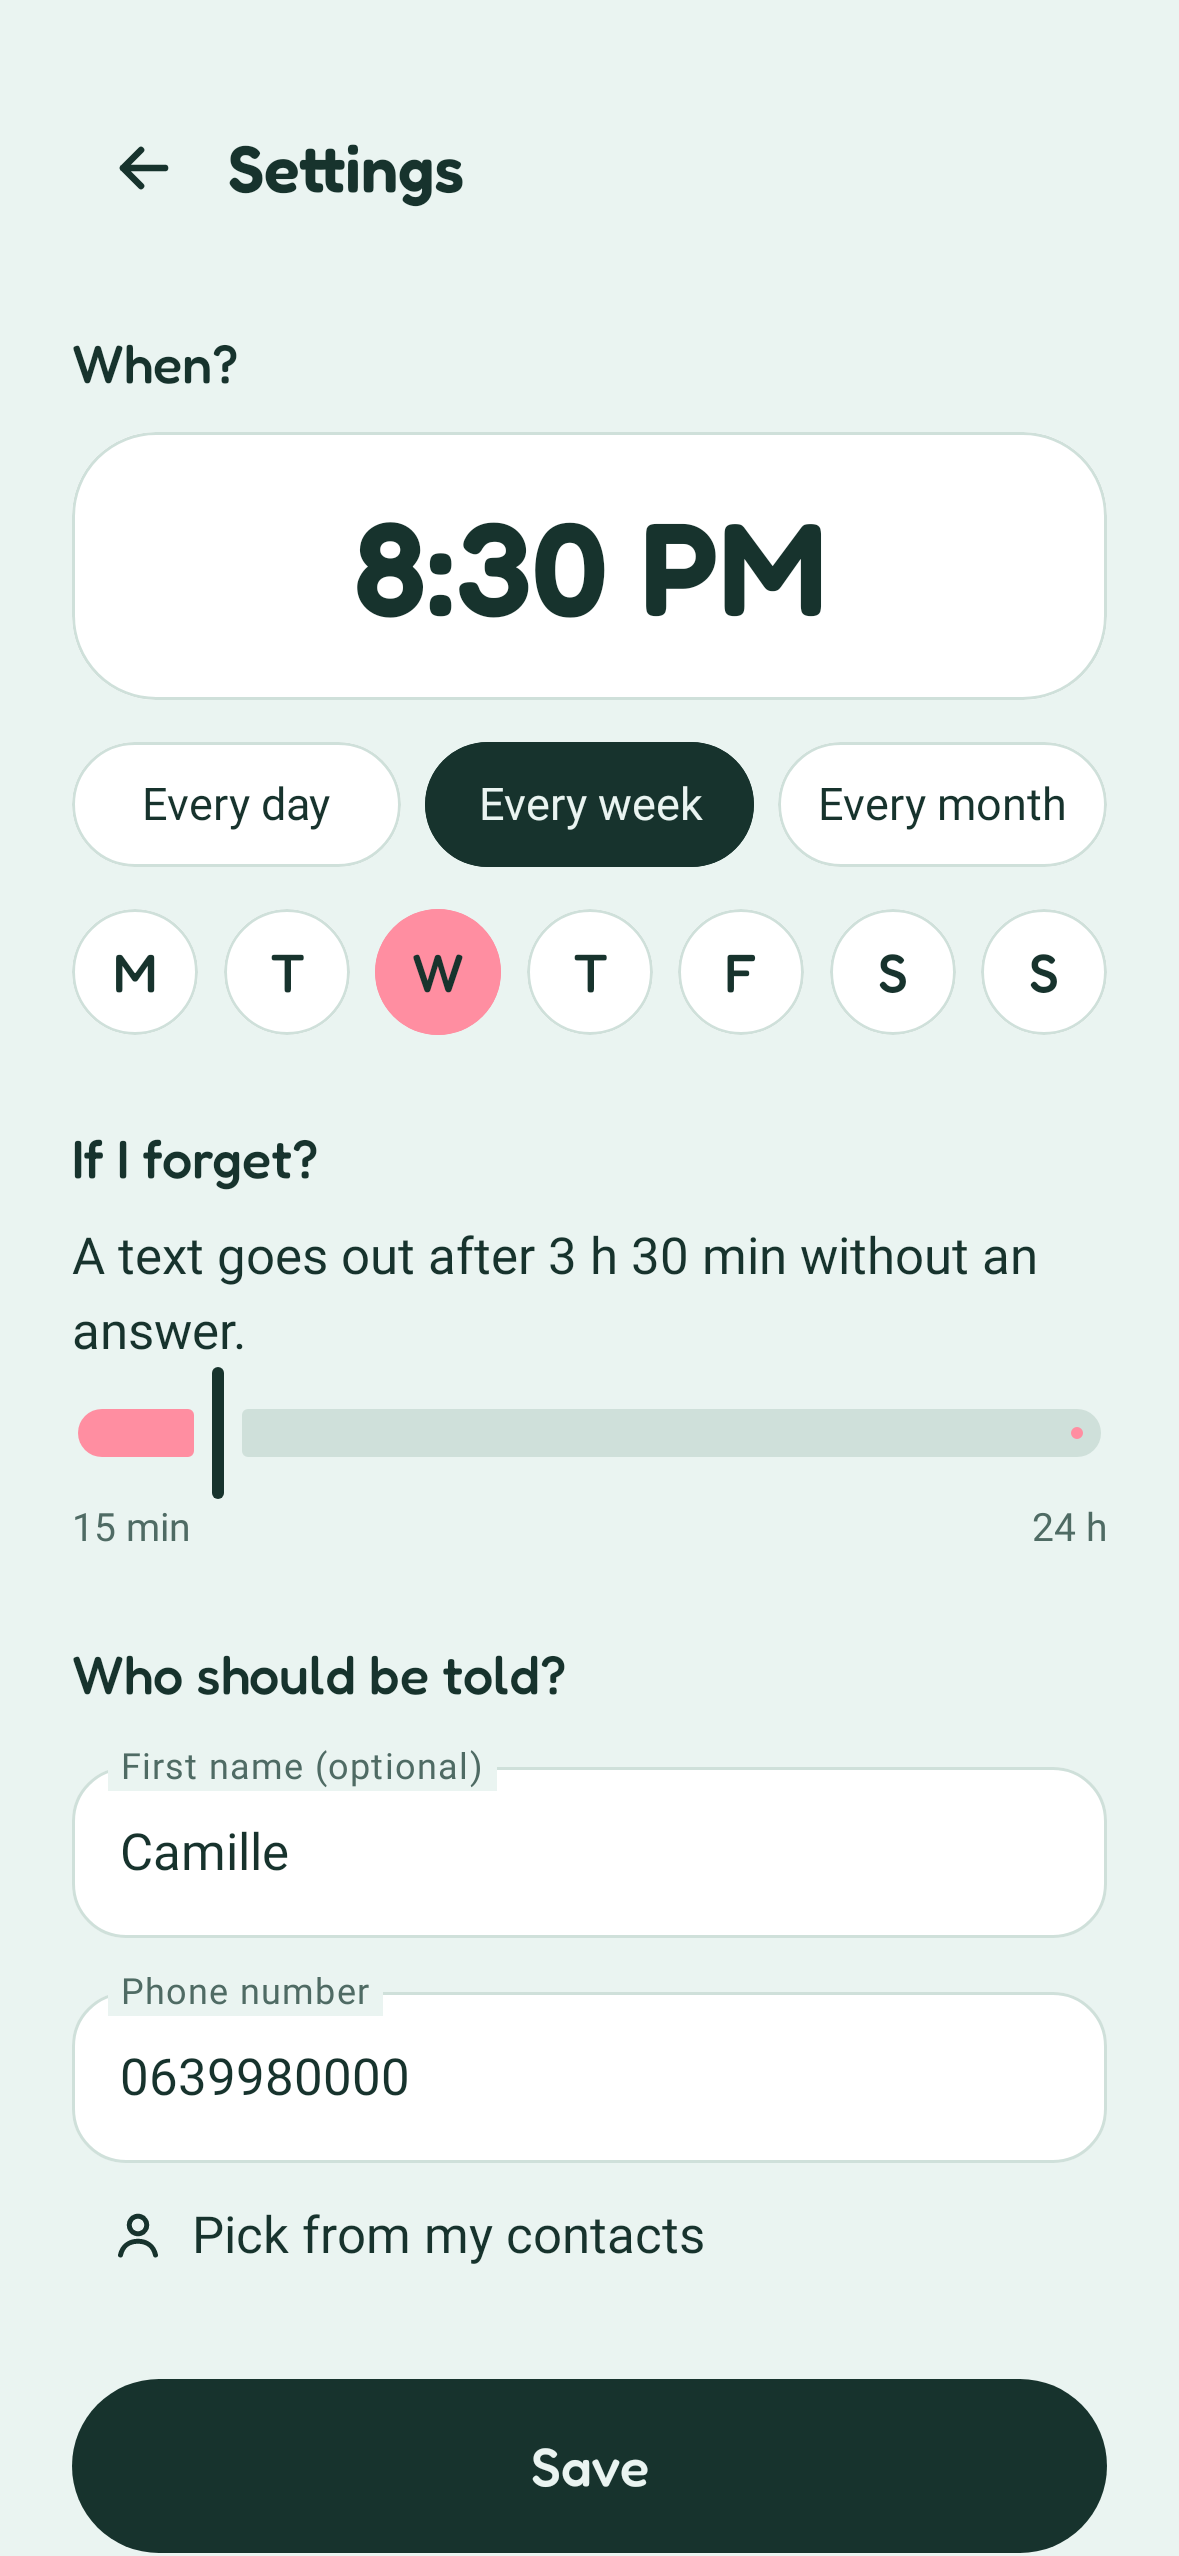
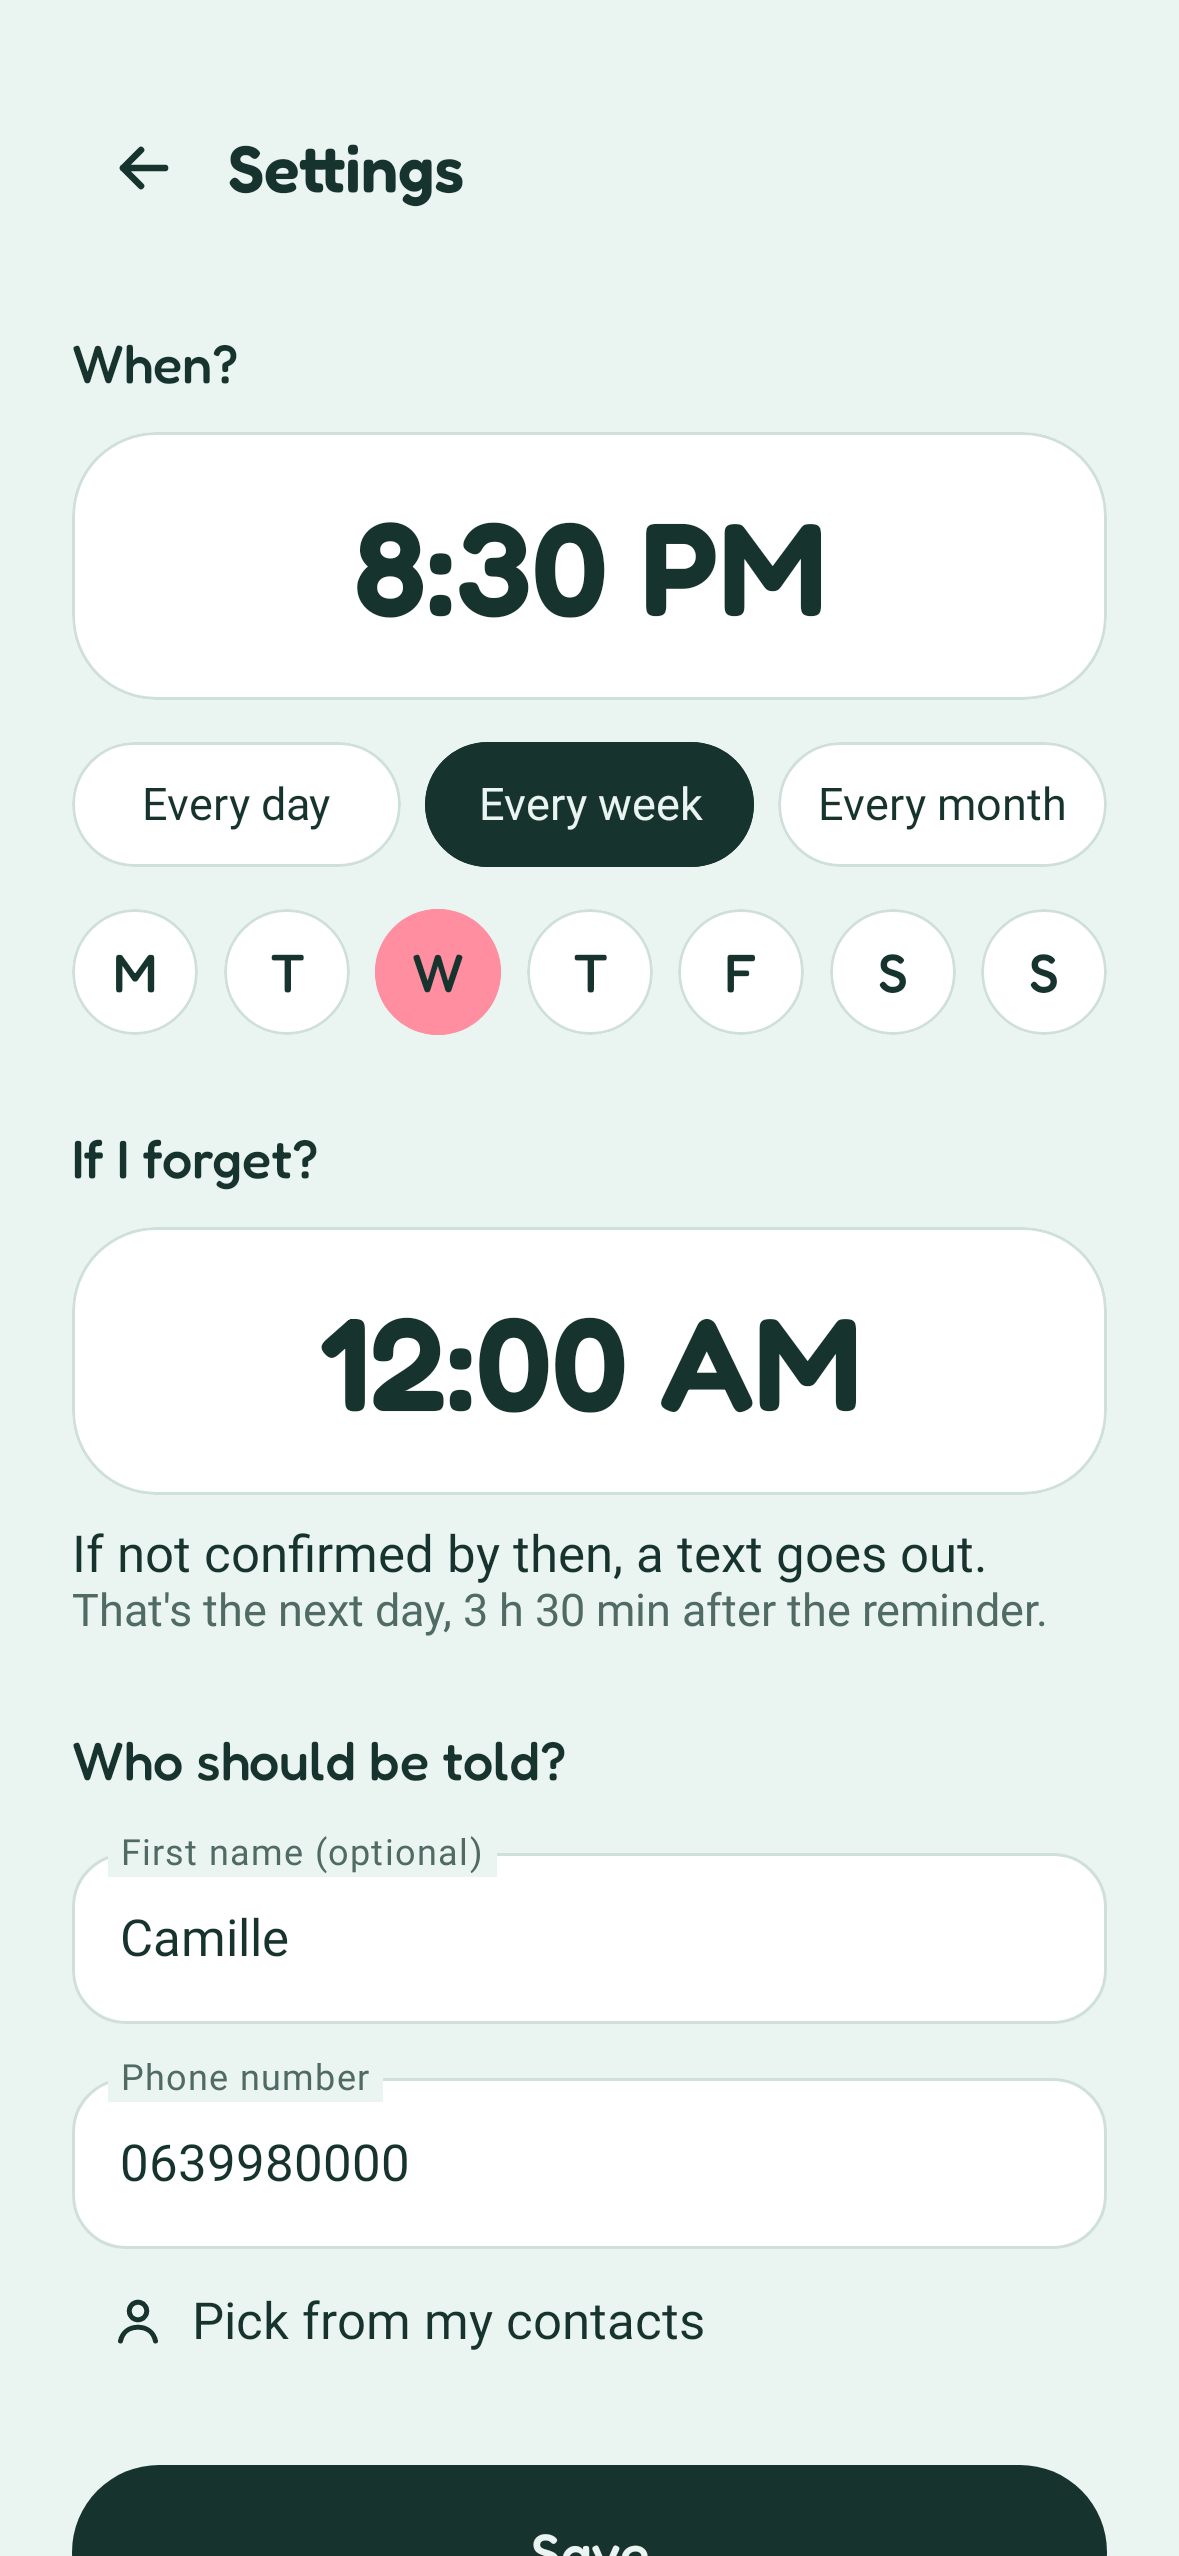
Set the SMS alert as a time of day; bump to 1.3.0

diff --git a/app/src/main/java/fr/priseok/app/ui/SettingsScreen.kt b/app/src/main/java/fr/priseok/app/ui/SettingsScreen.kt
@@ -37,8 +37,6 @@ import androidx.compose.material3.MaterialTheme
 import androidx.compose.material3.OutlinedButton
 import androidx.compose.material3.OutlinedTextField
 import androidx.compose.material3.OutlinedTextFieldDefaults
-import androidx.compose.material3.Slider
-import androidx.compose.material3.SliderDefaults
 import androidx.compose.material3.Text
 import androidx.compose.material3.TextButton
 import androidx.compose.material3.TimePicker
@@ -68,7 +66,6 @@ import fr.priseok.app.core.Schedule
 import fr.priseok.app.core.Settings
 import fr.priseok.app.core.Wording
 import androidx.compose.ui.res.stringResource
-import kotlin.math.roundToInt
 
 @OptIn(ExperimentalMaterial3Api::class)
 @Composable
@@ -93,7 +90,8 @@ fun SettingsScreen(
     var name by rememberSaveable { mutableStateOf(initial.contactName) }
     var phone by rememberSaveable { mutableStateOf(initial.phone) }
     var phoneError by rememberSaveable { mutableStateOf<Int?>(null) }
-    var showTime by remember { mutableStateOf(false) }
+    // Which clock is being edited: the reminder or the SMS alert. Null when no dialog is open.
+    var editing by remember { mutableStateOf<Clock?>(null) }
 
     val maxDelay = Schedule.maxDelayMinutes(freq)
     if (delay > maxDelay) delay = maxDelay
@@ -153,19 +151,7 @@ fun SettingsScreen(
         val timeCd = stringResource(R.string.time_cd, tx.time(hour, minute))
         // When
         Section(stringResource(R.string.section_when))
-        Box(
-            Modifier
-                .fillMaxWidth()
-                .clip(RoundedCornerShape(28.dp))
-                .background(p.surface)
-                .border(1.dp, p.line, RoundedCornerShape(28.dp))
-                .clickable(role = Role.Button) { showTime = true }
-                .padding(vertical = 18.dp)
-                .semantics { contentDescription = timeCd },
-            contentAlignment = Alignment.Center,
-        ) {
-            Text(tx.time(hour, minute), style = MaterialTheme.typography.displayMedium, color = p.pine)
-        }
+        ClockBox(tx.time(hour, minute), timeCd) { editing = Clock.REMINDER }
         Spacer(Modifier.height(14.dp))
         Row(Modifier.fillMaxWidth(), horizontalArrangement = Arrangement.spacedBy(8.dp)) {
             listOf(Frequency.DAILY to R.string.every_day, Frequency.WEEKLY to R.string.every_week, Frequency.MONTHLY to R.string.every_month)
@@ -203,25 +189,17 @@ fun SettingsScreen(
 
         // Delay
         Section(stringResource(R.string.section_forget))
+        // The alert is chosen as a time of day; the app keeps it as a delay after the reminder,
+        // so moving the reminder moves the alert with it.
+        val (alertMin, nextDay) = Schedule.alertTime(hour, minute, delay)
+        val alertText = tx.time(alertMin / 60, alertMin % 60)
+        ClockBox(alertText, stringResource(R.string.alert_cd, alertText)) { editing = Clock.ALERT }
+        Spacer(Modifier.height(10.dp))
+        Text(stringResource(R.string.alert_explain), style = MaterialTheme.typography.bodyLarge, color = p.pine)
         Text(
-            stringResource(R.string.delay_line, tx.delay(delay)),
-            style = MaterialTheme.typography.bodyLarge, color = p.pine,
+            stringResource(if (nextDay) R.string.alert_gap_next_day else R.string.alert_gap, tx.delay(delay)),
+            style = MaterialTheme.typography.bodyMedium, color = p.pineSoft,
         )
-        Slider(
-            value = delay.toFloat(),
-            onValueChange = { delay = ((it / 15f).roundToInt() * 15).coerceIn(15, maxDelay) },
-            valueRange = 15f..maxDelay.toFloat(),
-            steps = (maxDelay - 15) / 15 - 1,
-            colors = SliderDefaults.colors(
-                thumbColor = p.pine, activeTrackColor = p.pink, inactiveTrackColor = p.line,
-                activeTickColor = androidx.compose.ui.graphics.Color.Transparent,
-                inactiveTickColor = androidx.compose.ui.graphics.Color.Transparent,
-            ),
-        )
-        Row(Modifier.fillMaxWidth()) {
-            Text(tx.delay(15), style = MaterialTheme.typography.labelMedium, color = p.pineSoft, modifier = Modifier.weight(1f))
-            Text(tx.delay(maxDelay), style = MaterialTheme.typography.labelMedium, color = p.pineSoft)
-        }
 
         // Who
         Section(stringResource(R.string.section_who))
@@ -279,17 +257,26 @@ fun SettingsScreen(
         Spacer(Modifier.height(32.dp))
     }
 
-    if (showTime) {
-        val state = rememberTimePickerState(initialHour = hour, initialMinute = minute, is24Hour = android.text.format.DateFormat.is24HourFormat(ctx))
+    editing?.let { clock ->
+        val (aMin, _) = Schedule.alertTime(hour, minute, delay)
+        val (h0, m0) = if (clock == Clock.REMINDER) hour to minute else aMin / 60 to aMin % 60
+        val state = rememberTimePickerState(initialHour = h0, initialMinute = m0, is24Hour = android.text.format.DateFormat.is24HourFormat(ctx))
         AlertDialog(
-            onDismissRequest = { showTime = false },
+            onDismissRequest = { editing = null },
             containerColor = p.mist,
             confirmButton = {
-                TextButton(onClick = { hour = state.hour; minute = state.minute; showTime = false }) {
+                TextButton(onClick = {
+                    if (clock == Clock.REMINDER) {
+                        hour = state.hour; minute = state.minute
+                    } else {
+                        delay = Schedule.delayForAlertTime(hour, minute, state.hour, state.minute, freq)
+                    }
+                    editing = null
+                }) {
                     Text(stringResource(R.string.ok), color = p.pine)
                 }
             },
-            dismissButton = { TextButton(onClick = { showTime = false }) { Text(stringResource(R.string.cancel), color = p.pineSoft) } },
+            dismissButton = { TextButton(onClick = { editing = null }) { Text(stringResource(R.string.cancel), color = p.pineSoft) } },
             text = {
                 TimePicker(
                     state,
@@ -305,6 +292,27 @@ fun SettingsScreen(
                 )
             },
         )
+    }
+}
+
+private enum class Clock { REMINDER, ALERT }
+
+/** A big tappable time, used for the reminder and for the SMS alert. */
+@Composable
+private fun ClockBox(time: String, description: String, onClick: () -> Unit) {
+    val p = LocalPalette.current
+    Box(
+        Modifier
+            .fillMaxWidth()
+            .clip(RoundedCornerShape(28.dp))
+            .background(p.surface)
+            .border(1.dp, p.line, RoundedCornerShape(28.dp))
+            .clickable(role = Role.Button, onClick = onClick)
+            .padding(vertical = 18.dp)
+            .semantics { contentDescription = description },
+        contentAlignment = Alignment.Center,
+    ) {
+        Text(time, style = MaterialTheme.typography.displayMedium, color = p.pine)
     }
 }
 

diff --git a/app/src/main/java/fr/priseok/app/core/Schedule.kt b/app/src/main/java/fr/priseok/app/core/Schedule.kt
@@ -67,6 +67,22 @@ object Schedule {
     fun maxDelayMinutes(f: Frequency): Int =
         if (f == Frequency.DAILY) MINUTES_PER_DAY - 15 else MINUTES_PER_DAY
 
+    /**
+     * The delay that makes the SMS go out at [alertHour]:[alertMinute], for a reminder at [hour]:[minute].
+     * An alert time at or before the reminder means the next day.
+     */
+    fun delayForAlertTime(hour: Int, minute: Int, alertHour: Int, alertMinute: Int, f: Frequency): Int {
+        var d = Math.floorMod((alertHour * 60 + alertMinute) - (hour * 60 + minute), MINUTES_PER_DAY)
+        if (d == 0) d = MINUTES_PER_DAY
+        return d.coerceIn(15, maxDelayMinutes(f))
+    }
+
+    /** Minute of the day when the SMS goes out, and whether that is the day after the reminder. */
+    fun alertTime(hour: Int, minute: Int, delayMinutes: Int): Pair<Int, Boolean> {
+        val total = hour * 60 + minute + delayMinutes
+        return (total % MINUTES_PER_DAY) to (total >= MINUTES_PER_DAY)
+    }
+
     fun clampedDelay(s: Settings): Int = s.delayMinutes.coerceIn(15, maxDelayMinutes(s.frequency))
 
     /** The trigger on [date], or null if the schedule has no dose that day. */

diff --git a/app/src/test/java/fr/priseok/app/core/ScheduleTest.kt b/app/src/test/java/fr/priseok/app/core/ScheduleTest.kt
@@ -64,6 +64,24 @@ class ScheduleTest {
         assertEquals(at(2026, 3, 11, 1), Schedule.deadline(s, at(2026, 3, 10, 22)))
     }
 
+    // ---- alert chosen as a time of day ----
+
+    @Test fun alertTimeLaterSameDay() =
+        assertEquals(120, Schedule.delayForAlertTime(9, 0, 11, 0, Frequency.DAILY))
+
+    @Test fun alertTimeBeforeReminderMeansNextDay() {
+        assertEquals(180, Schedule.delayForAlertTime(22, 0, 1, 0, Frequency.DAILY))
+        assertEquals(1 * 60 to true, Schedule.alertTime(22, 0, 180))
+    }
+
+    @Test fun alertTimeIsClamped() {
+        assertEquals(15, Schedule.delayForAlertTime(9, 0, 9, 5, Frequency.DAILY))
+        assertEquals(24 * 60 - 15, Schedule.delayForAlertTime(9, 0, 9, 0, Frequency.DAILY)) // same time, daily
+        assertEquals(24 * 60, Schedule.delayForAlertTime(9, 0, 9, 0, Frequency.WEEKLY))
+    }
+
+    @Test fun alertFollowsTheReminder() = assertEquals((11 * 60 + 30) to false, Schedule.alertTime(9, 30, 120))
+
     // ---- plan: which alarms to set ----
 
     @Test fun beforeReminderOnlyNextReminderIsSet() {
